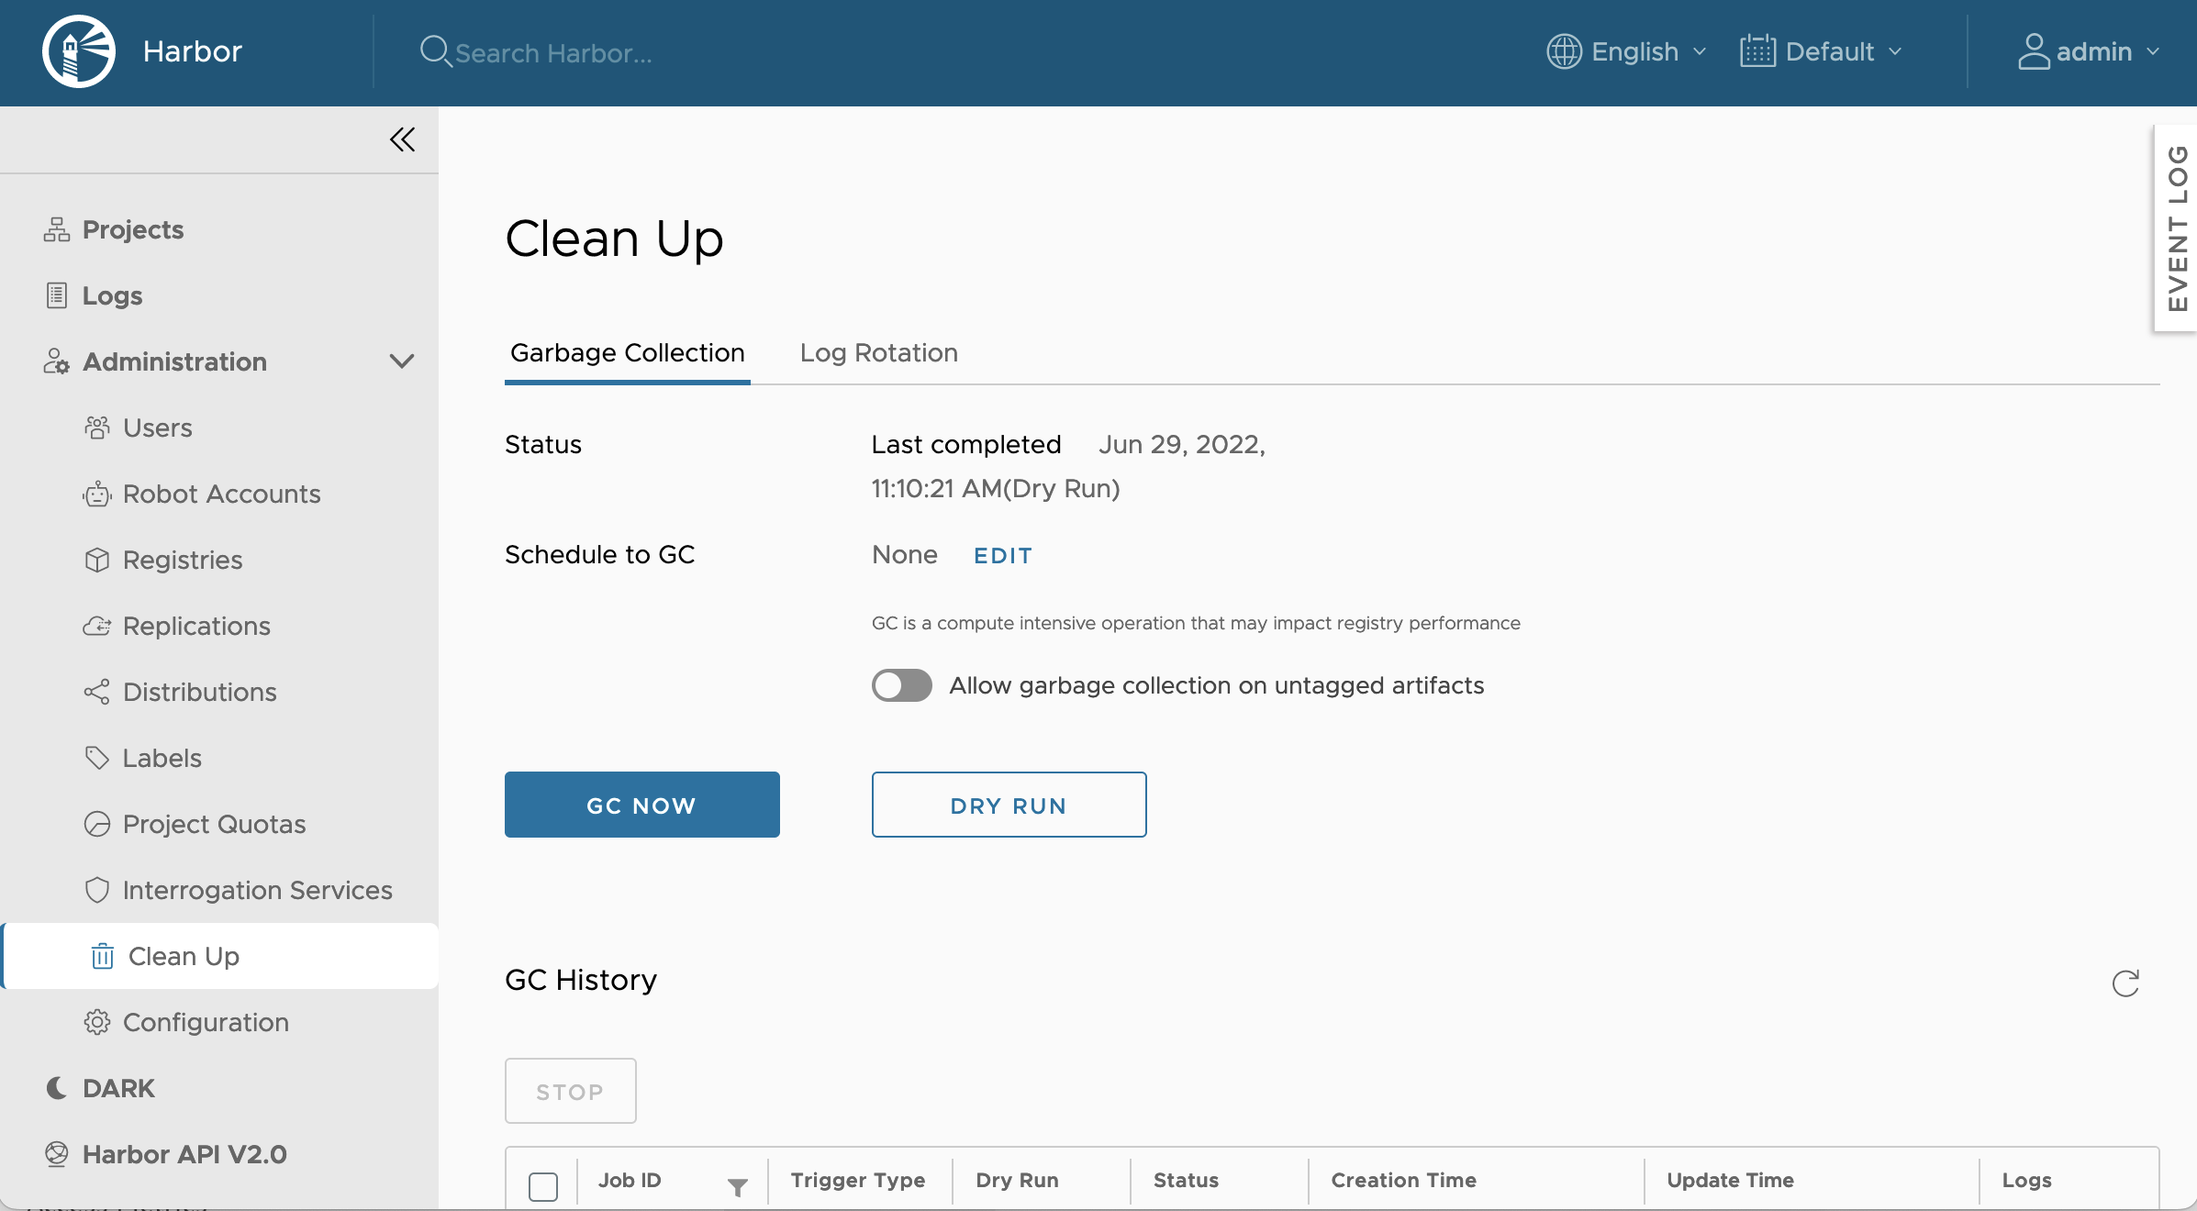
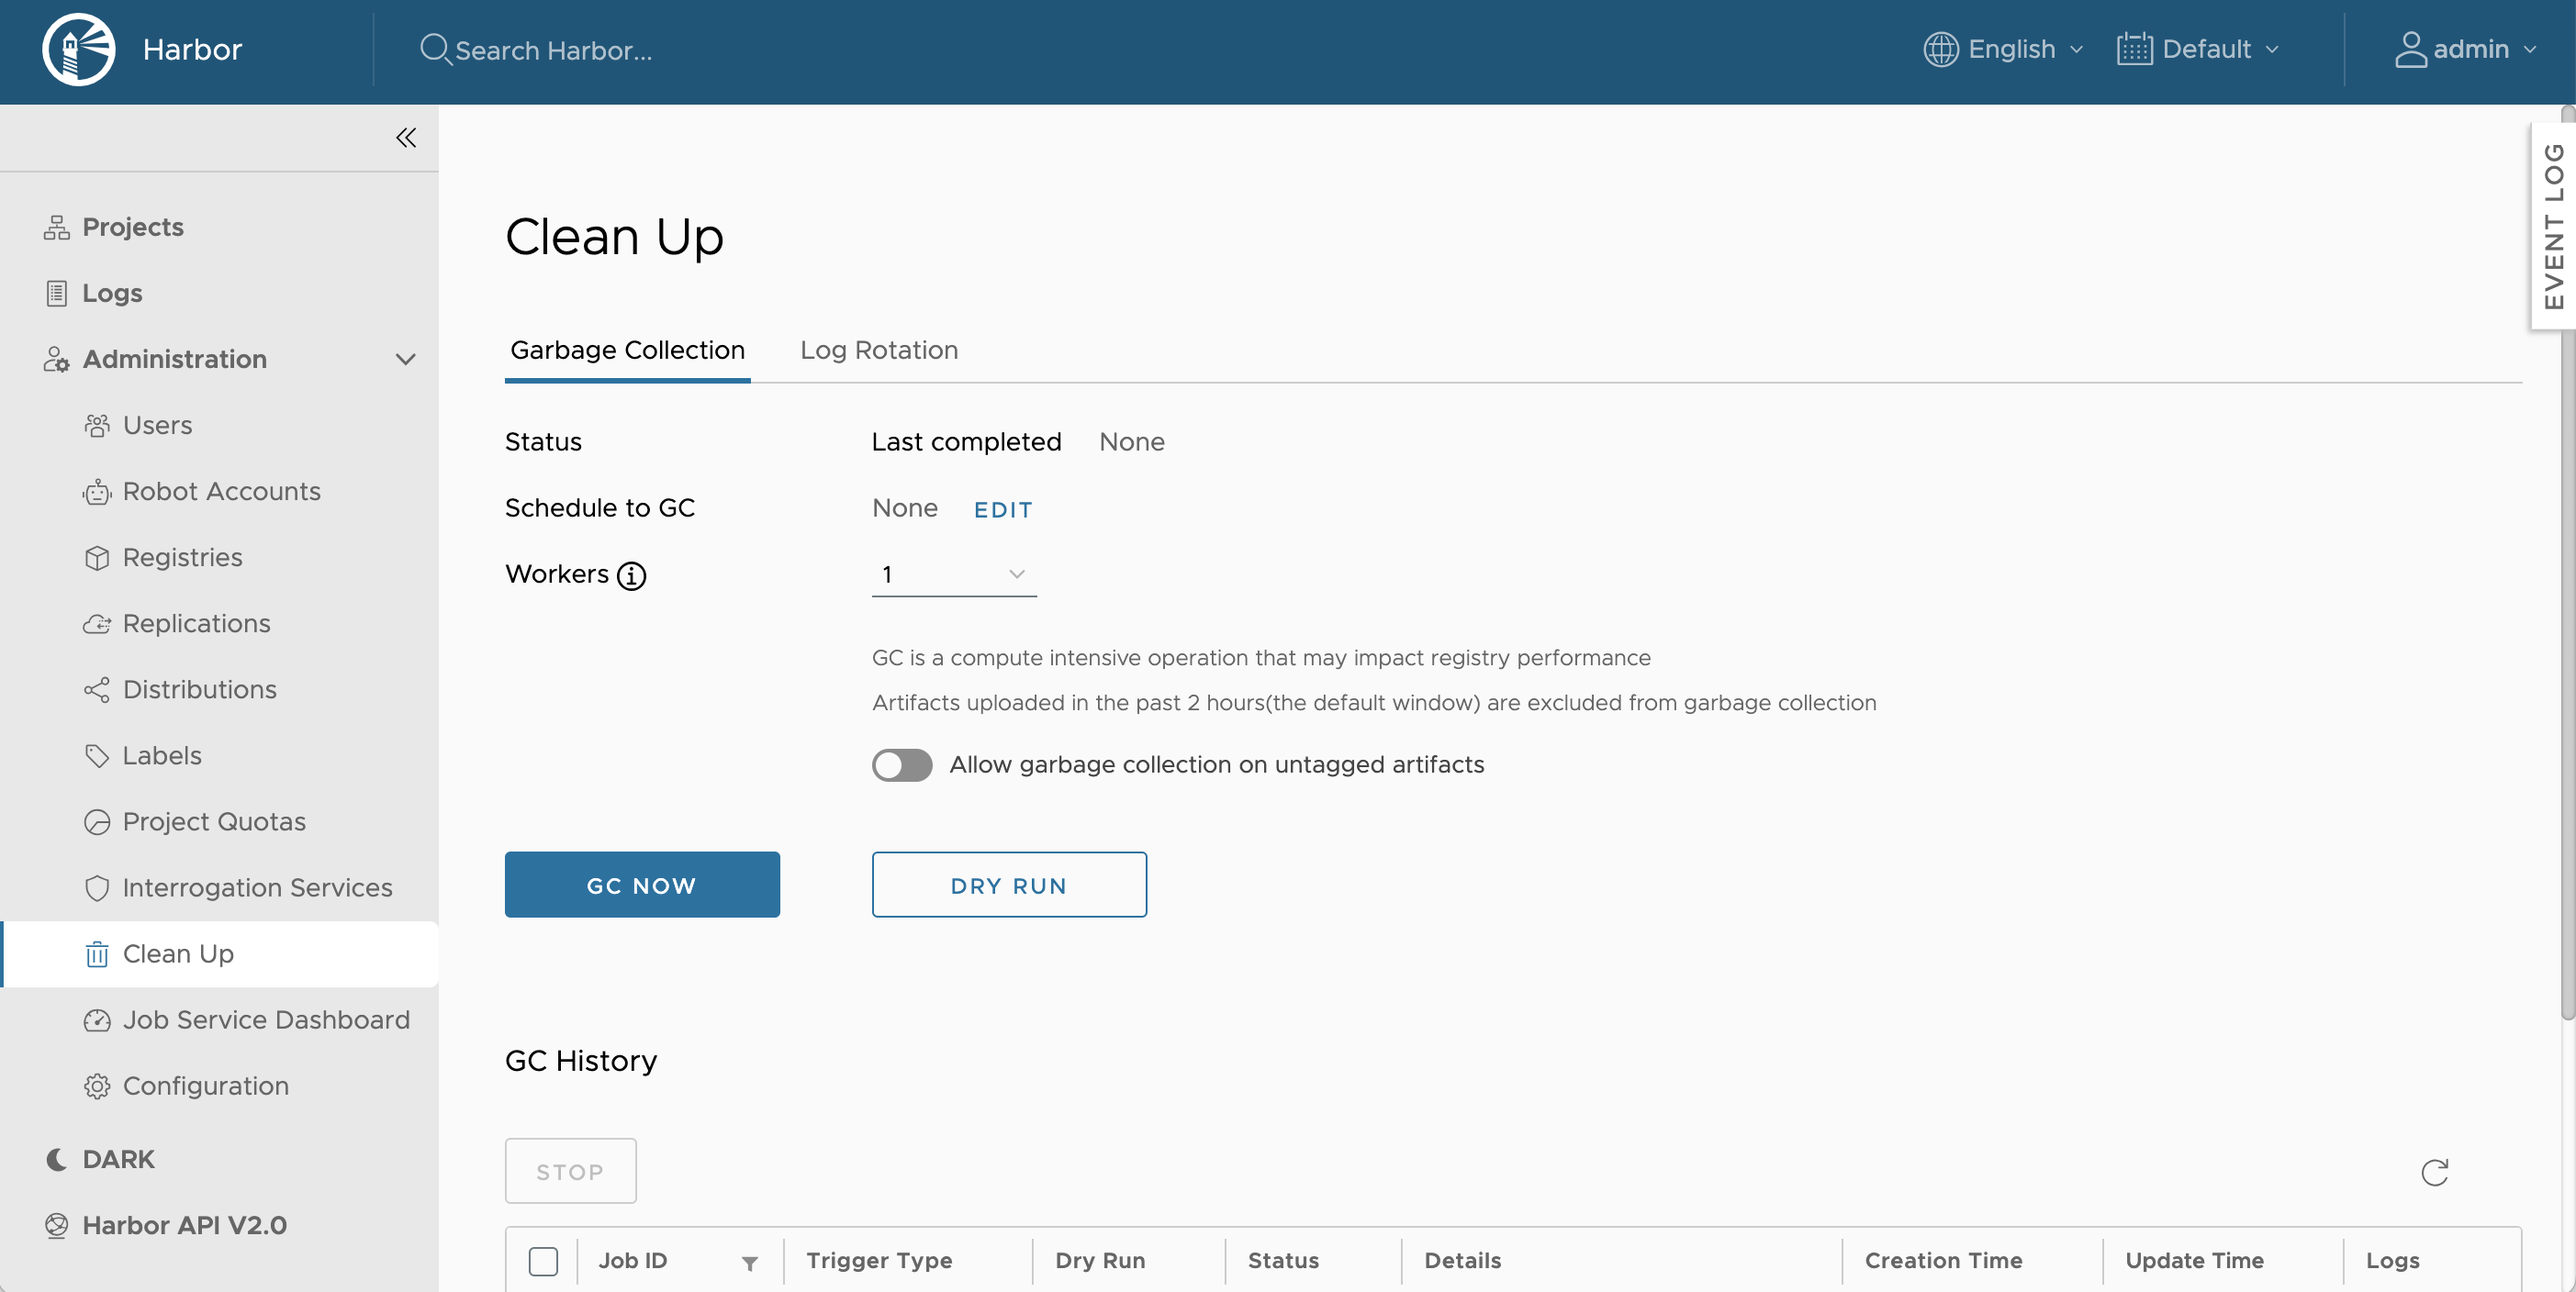
Add GC enhancement document

diff --git a/docs/administration/garbage-collection/_index.md b/docs/administration/garbage-collection/_index.md
@@ -3,16 +3,17 @@ title: Garbage Collection
 weight: 40
 ---
 
-When you delete images from Harbor, space is not automatically freed up. You must run garbage collection to free up space by removing blobs that are no longer referenced by a manifest from the file system.  
+When you delete images from Harbor, space is not automatically freed up. You must run garbage collection to free up space by removing blobs that are no longer referenced by a manifest from the file system.
 
 ## Run Garbage Collection
 
 1. Log in to the Harbor interface with an account that has Harbor system administrator privileges.
 1. Expand **Administration**, and select **Clean Up**.
-1. Select the **'Clean Up'** tab.
+1. Select the **'Garbage Collection'** tab.
 
     ![Garbage collection](../../img/garbage-collection.png)
 
+1. For the **Workers** item, you are able to select the number of workers that can execute GC tasks in parallel.
 1. To **Allow garbage collection on untagged artifacts**, select the option. If you have this option turned on, the next time Garbage collect runs on your Harbor instance, Harbor will delete untagged artifacts and then perform garbage collection on them.
 1. To dry run garbage collection, click **DRY RUN**.
 1. To run garbage collection immediately, click **GC Now**.
@@ -37,7 +38,8 @@ You are able to schedule garbage colleciton on your Harbor interface from the **
     * **Weekly**: Run garbage collection at midnight every Saturday.
     * **Custom**: Run garbage collection according to a `cron` job.
 
-1. To **Allow garbage collection on untagged artifacts**, select the option. If you have this option turned on, the next time Garbage collect runs on your Harbor instance, Harbor will delete untagged artifacts and then perform garbage collection on them.     
+1. For the **Workers** item, you are able to select the number of workers that can execute GC tasks in parallel.
+1. To **Allow garbage collection on untagged artifacts**, select the option. If you have this option turned on, the next time Garbage collect runs on your Harbor instance, Harbor will delete untagged artifacts and then perform garbage collection on them.
 1. Click **Save**.
 
 ## View Garbage Collection History
@@ -48,9 +50,10 @@ Each time you run garbage collection on your Harbor instance, Harbor will track 
   * **Job ID:** Unique numerical value assigned by Harbor when a run is initiated.
   * **Trigger Type:** How the run was initiated, either Manual or by Schedule.
   * **Dry Run:** If the run was a dry run or not.
-  * **Status:** Current status of the run.  
+  * **Status:** Current status of the run.
+  * **Details:** Garbage collection details.
   * **Creation Time:** Time the run started.
-  * **Update time:** The last time the run was updated.  
+  * **Update time:** The last time the run was updated.
   * **Logs:** A link to the logs generated by the run. If you are performing a Dry Run, this will include an estimate of the artifacts that will be garbage collected.
 
   ![Garbage collection history](../../img/gc-history.png)
